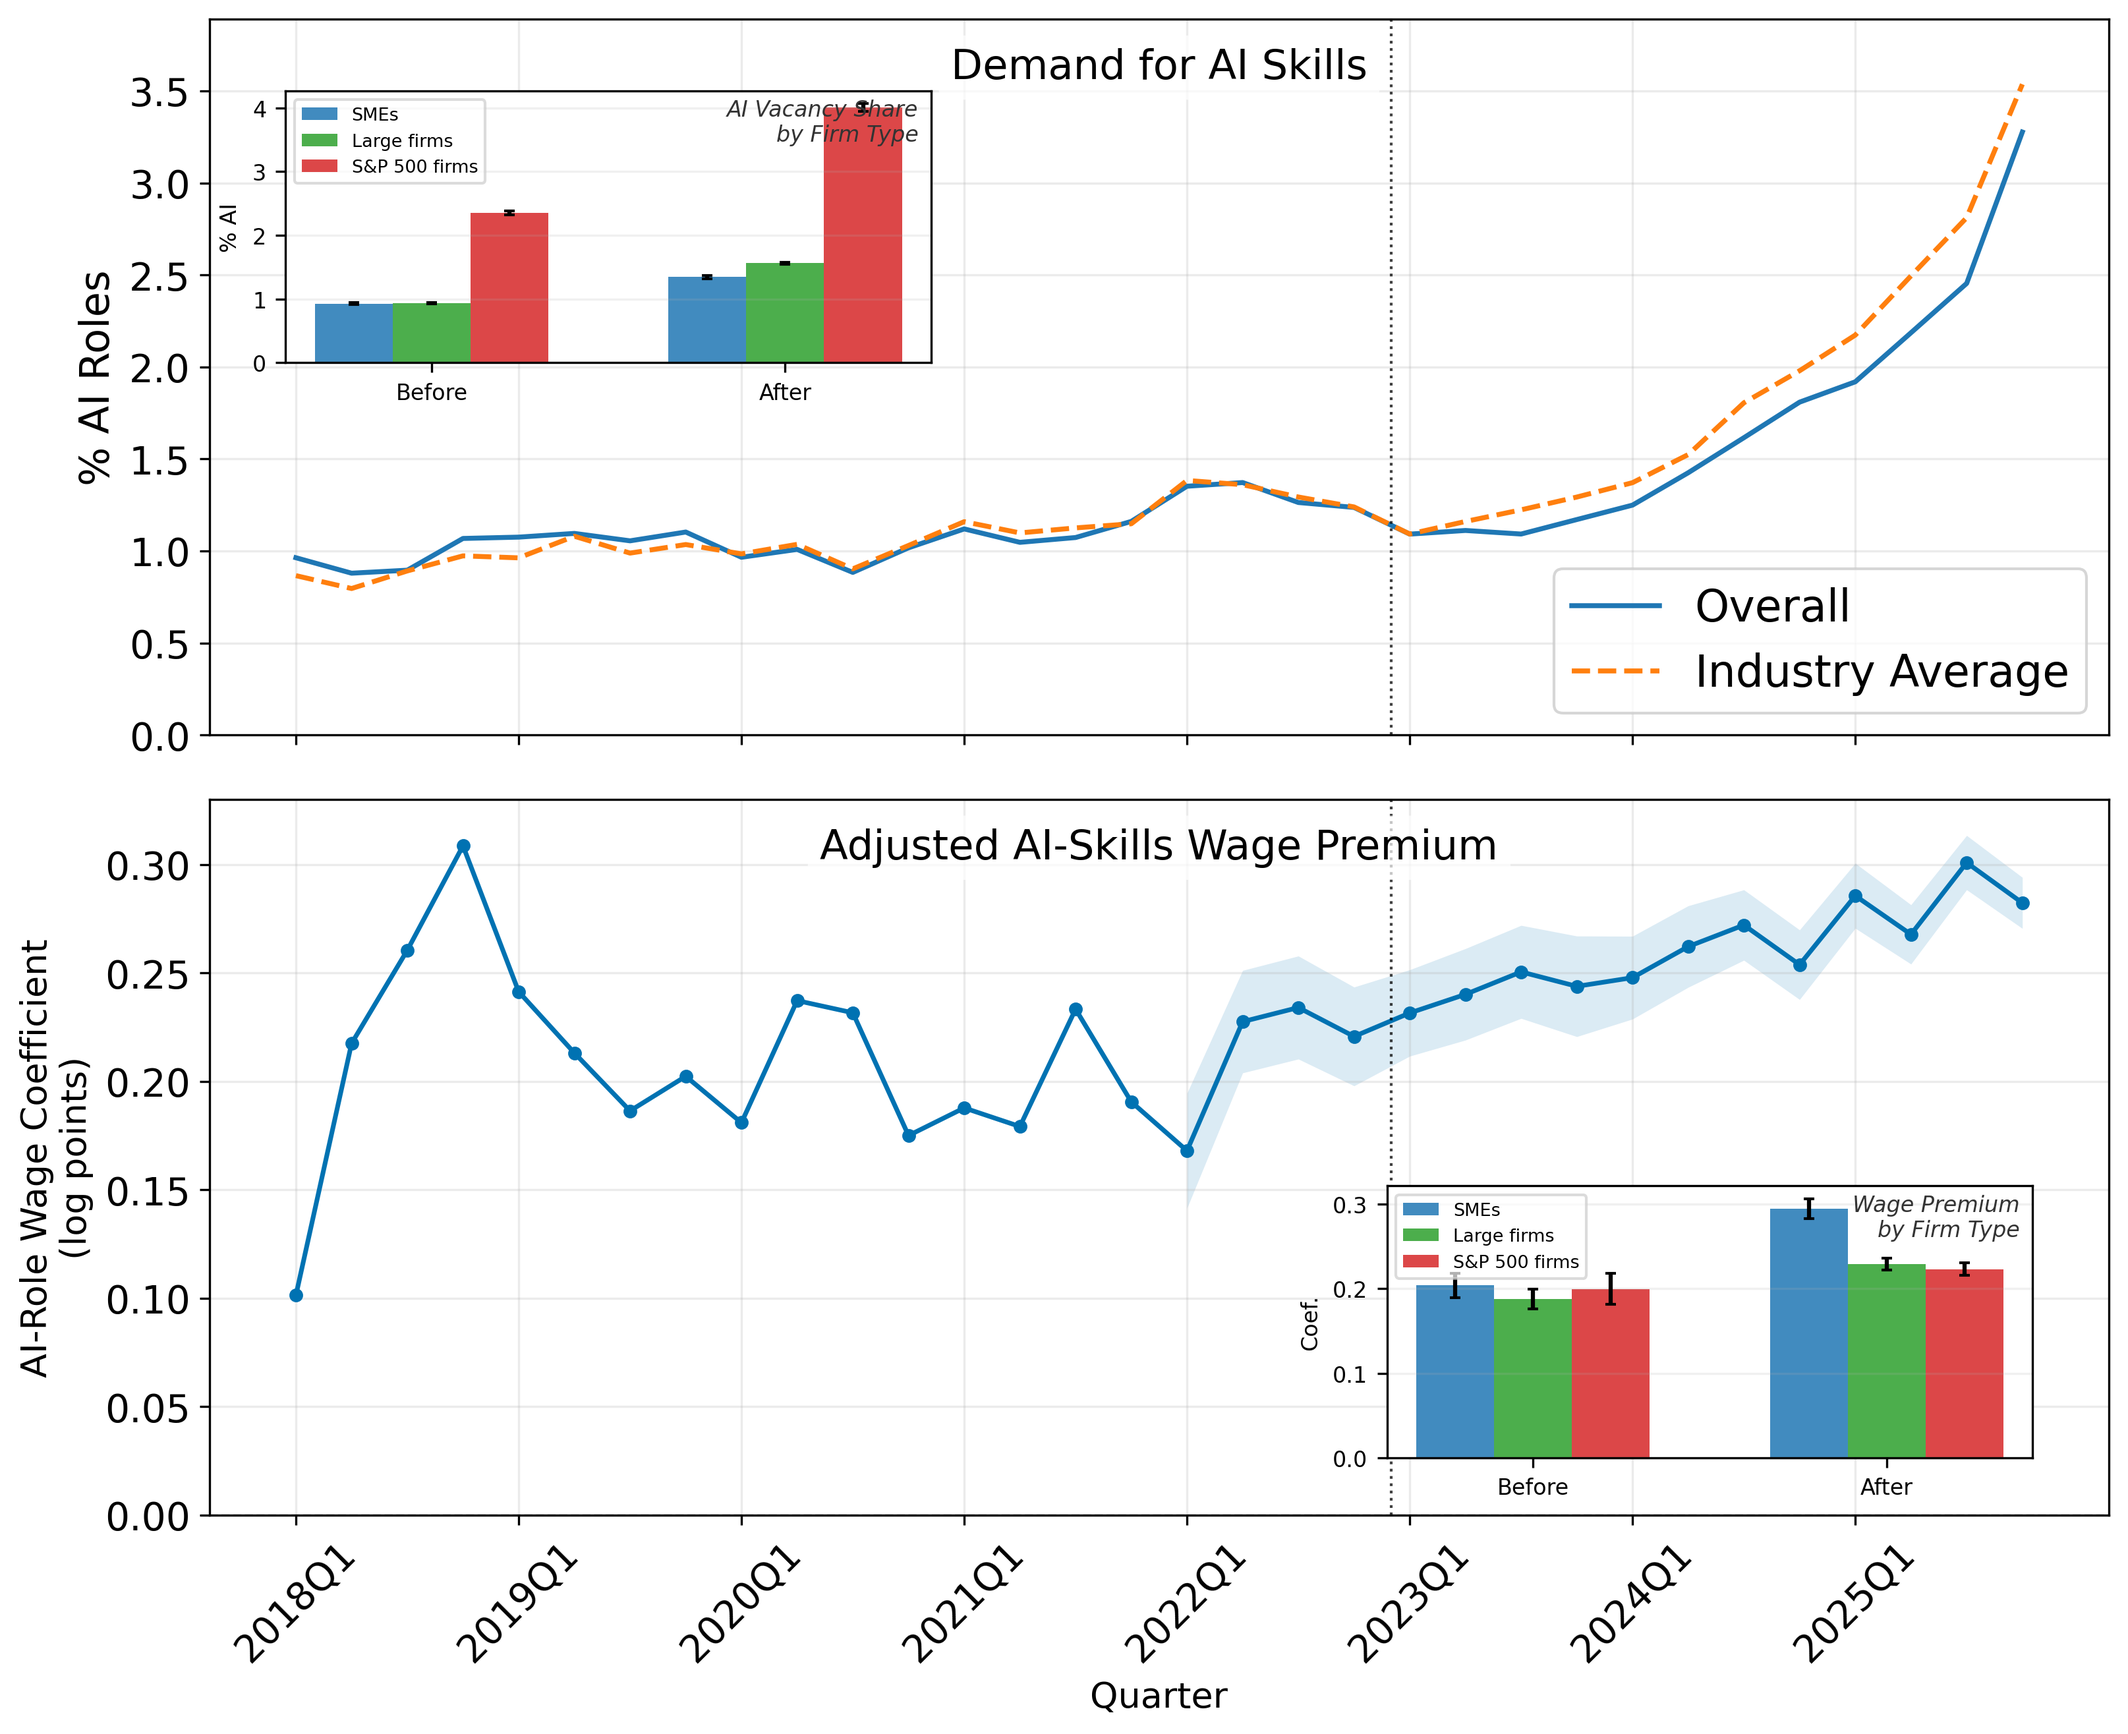
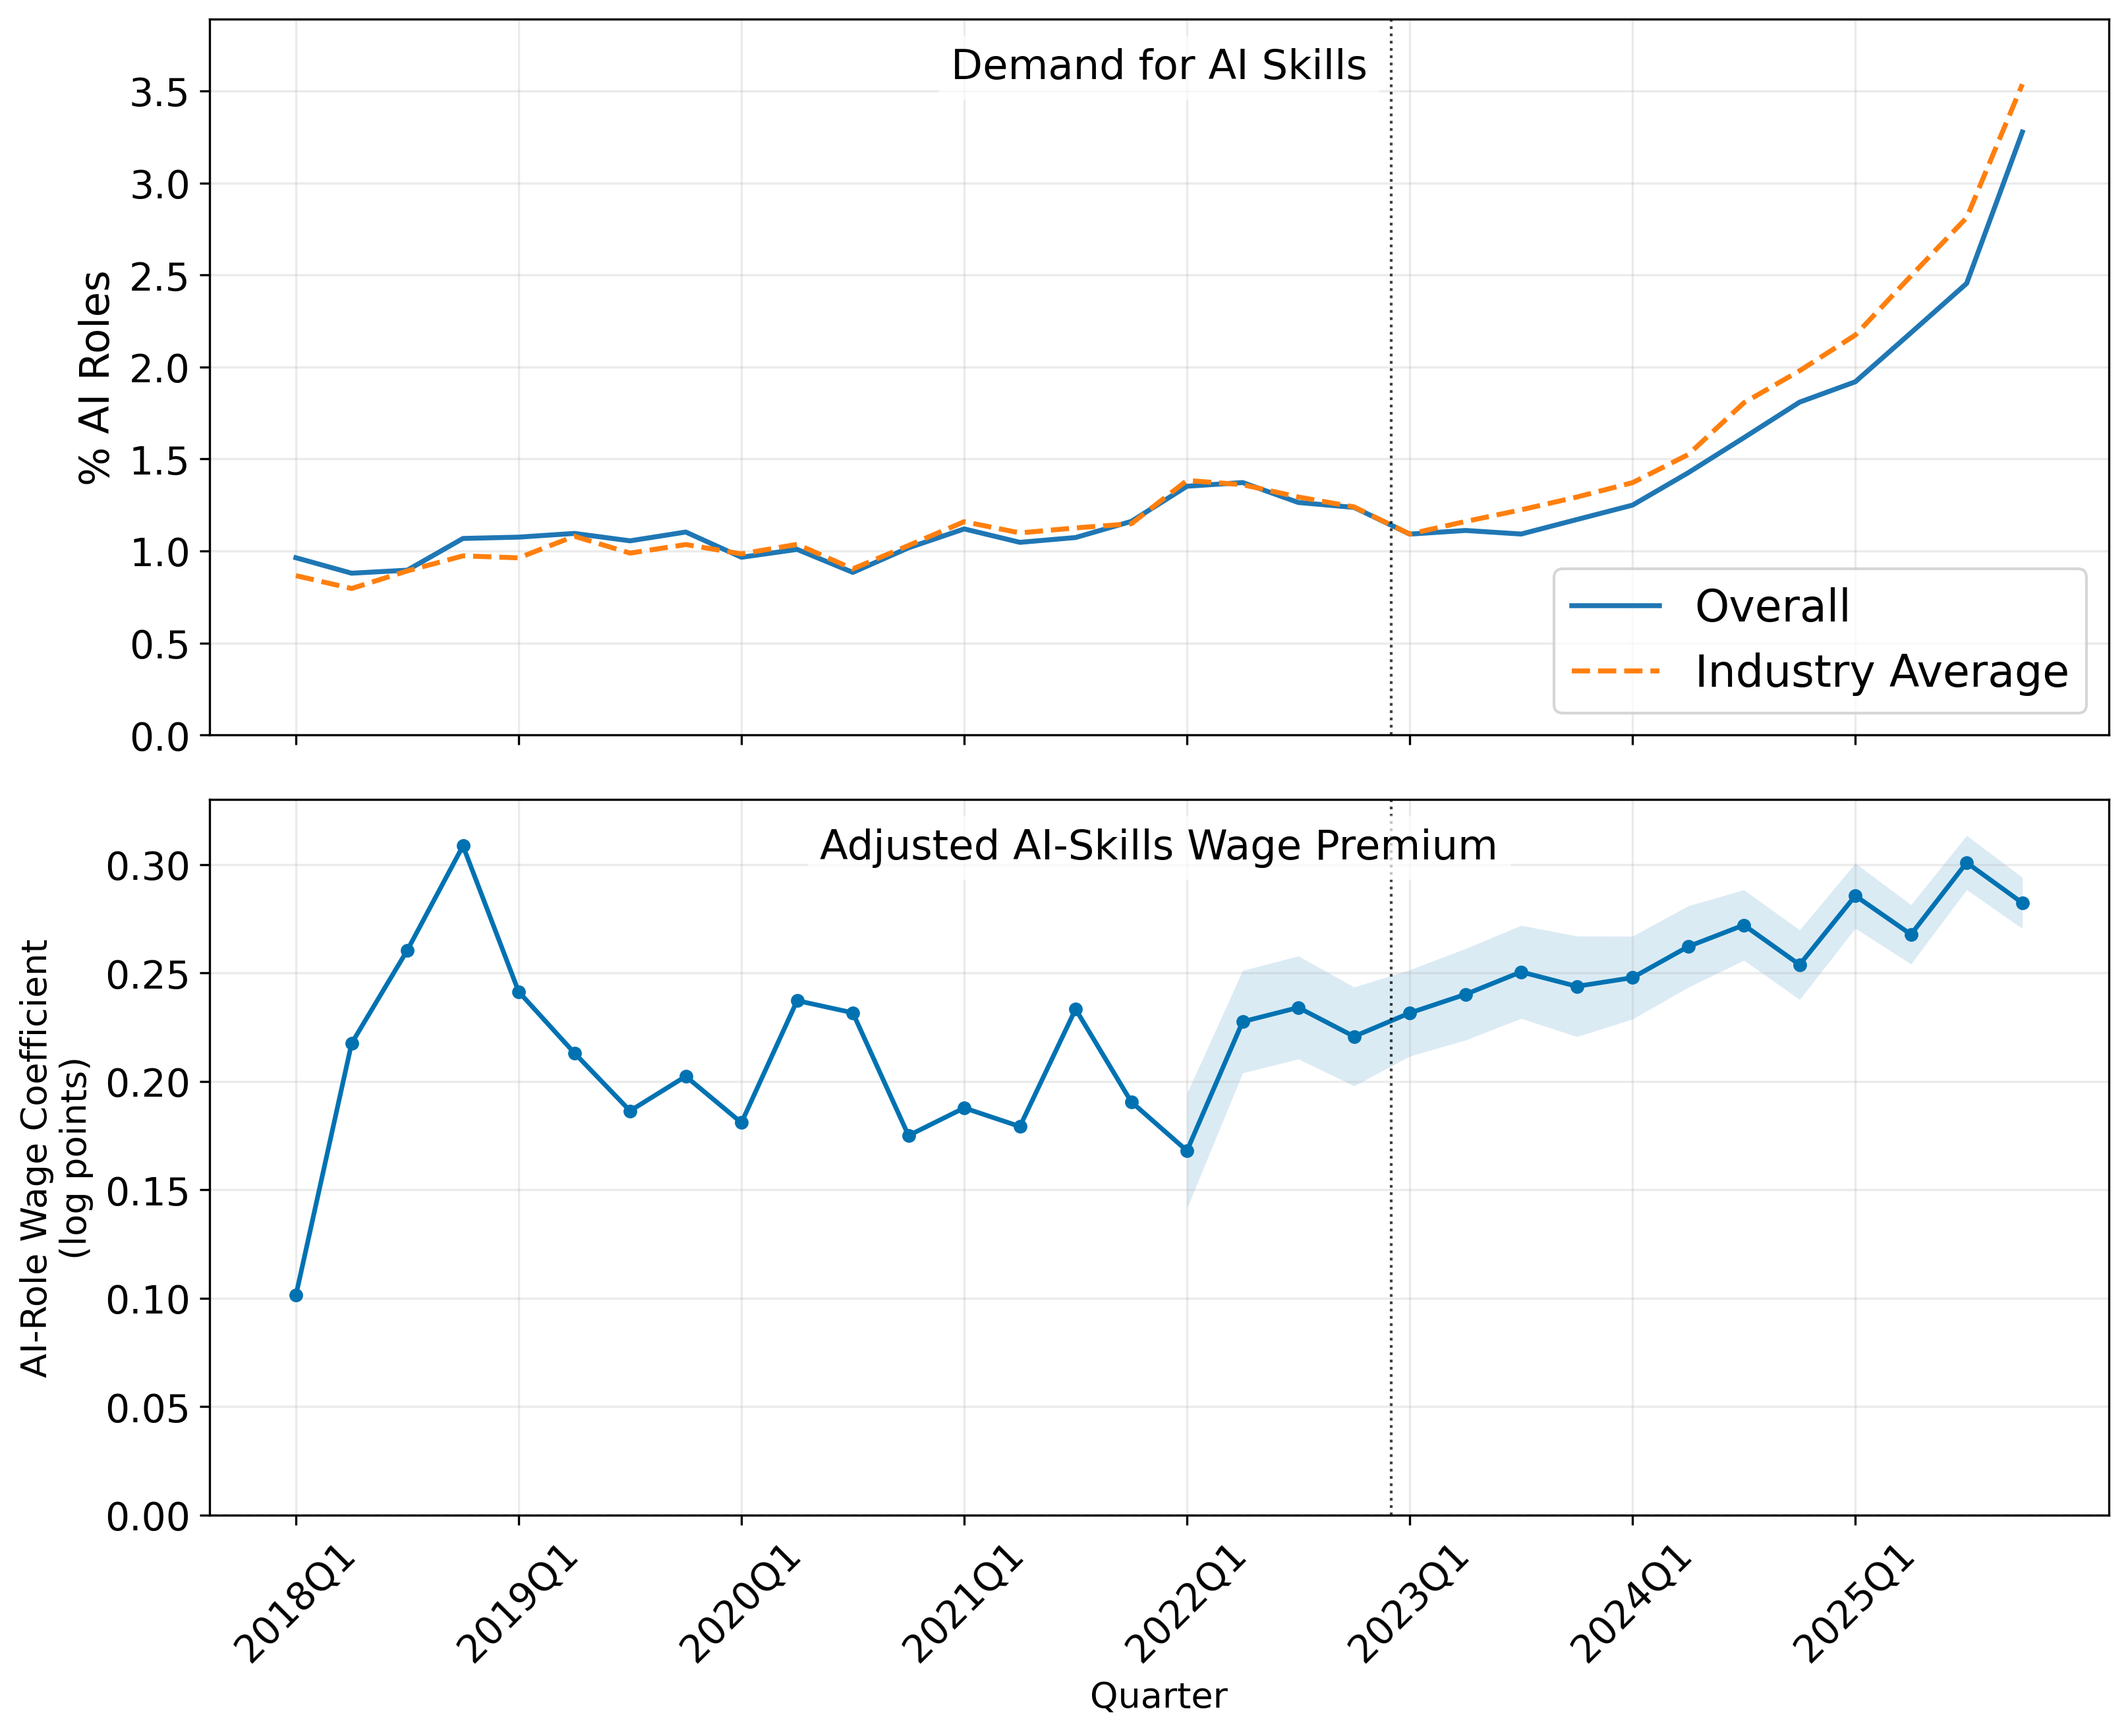
remove fig 1 insets

diff --git a/scripts/plot_firm_category_figure1.py b/scripts/plot_firm_category_figure1.py
@@ -9,15 +9,18 @@ Usage:
     uv run python scripts/plot_firm_category_figure1.py
 """
 
+import os
 from pathlib import Path
 import sys
+
+os.environ.setdefault("MPLCONFIGDIR", "/tmp/matplotlib")
 
 import matplotlib.pyplot as plt
 import numpy as np
 import pandas as pd
 
 sys.path.append(str(Path(__file__).parent.parent / "src"))
-from package_files.config_utils import get_repo_root
+from package_files.config_utils import get_processed_dir, get_repo_root
 
 REPO_ROOT = get_repo_root()
 TABLES_DIR = REPO_ROOT / "results" / "tables_2026" / "descriptive"
@@ -36,6 +39,8 @@ FIRM_CATEGORY_MARKERS = {
     "S&P 500 firms": "o",
 }
 GENAI_CUTOFF = pd.Period("2022Q4", freq="Q")
+FIGURE1_DEMAND_INSET_BOUNDS = [0.04, 0.52, 0.34, 0.38]
+FIGURE1_WAGE_INSET_BOUNDS = [0.62, 0.08, 0.34, 0.38]
 
 
 def add_firm_category(df):
@@ -101,13 +106,26 @@ def set_tight_symmetric_ylim(ax, values, lower_values=None, upper_values=None, p
     ax.set_ylim(-limit, limit)
 
 
+def set_zero_based_ylim(ax, values, upper_values=None, pad=0.10, floor=0.02, min_upper=None):
+    pieces = [pd.Series(values).dropna()]
+    if upper_values is not None:
+        pieces.append(pd.Series(upper_values).dropna())
+    combined = pd.concat(pieces, ignore_index=True)
+    if combined.empty:
+        return
+    upper = max(float(combined.max()) * (1 + pad), floor)
+    if min_upper is not None:
+        upper = max(upper, min_upper)
+    ax.set_ylim(0, upper)
+
+
 def add_demand_inset(ax, demand_wide):
     """Add the Figure 1-style before/after demand inset from saved quarters."""
     period_means = {
         "Before": demand_wide[demand_wide.index.year <= 2022].mean(),
         "After": demand_wide[demand_wide.index.year > 2022].mean(),
     }
-    inset = ax.inset_axes([1.08, 0.22, 0.30, 0.52])
+    inset = ax.inset_axes(FIGURE1_DEMAND_INSET_BOUNDS)
     periods = ["Before", "After"]
     x = np.arange(len(periods))
     bar_width = 0.22
@@ -124,17 +142,17 @@ def add_demand_inset(ax, demand_wide):
         )
 
     inset.set_xticks(x)
-    inset.set_xticklabels(periods, fontsize=8)
-    inset.set_ylabel("% AI", fontsize=7)
-    inset.tick_params(axis="both", labelsize=7)
-    inset.legend(fontsize=5.5, loc="upper left", framealpha=0.7)
+    inset.set_xticklabels(periods, fontsize=9)
+    inset.set_ylabel("% AI", fontsize=8)
+    inset.tick_params(axis="both", labelsize=8)
+    inset.legend(fontsize=6.5, loc="upper left", framealpha=0.7)
     inset.grid(axis="y", alpha=0.18)
     inset.text(
         0.98,
         0.97,
         "AI Vacancy Share\nby Firm Type",
         transform=inset.transAxes,
-        fontsize=7,
+        fontsize=8,
         ha="right",
         va="top",
         fontstyle="italic",
@@ -171,7 +189,7 @@ def add_wage_inset(ax, wage_betas):
     period_betas = summarize_wage_betas_by_period(wage_betas)
     if period_betas.empty:
         return
-    inset = ax.inset_axes([1.08, 0.22, 0.30, 0.52])
+    inset = ax.inset_axes(FIGURE1_WAGE_INSET_BOUNDS)
     periods = ["Before", "After"]
     x = np.arange(len(periods))
     bar_width = 0.22
@@ -181,29 +199,39 @@ def add_wage_inset(ax, wage_betas):
             period_betas[FIRM_CATEGORY] == category
         ].set_index("period")
         values = [category_data.loc[p, "ai_role_beta"] for p in periods]
+        yerr_lo = [
+            category_data.loc[p, "ai_role_beta"] - category_data.loc[p, "lower_ci"]
+            for p in periods
+        ]
+        yerr_hi = [
+            category_data.loc[p, "upper_ci"] - category_data.loc[p, "ai_role_beta"]
+            for p in periods
+        ]
         offset = (i - 1) * bar_width
         inset.bar(
             x + offset,
             values,
+            yerr=[yerr_lo, yerr_hi],
             width=bar_width,
             color=FIRM_CATEGORY_COLORS[category],
             alpha=0.85,
+            capsize=2,
             label=category,
         )
 
     inset.axhline(0, color="gray", linewidth=0.7, linestyle="--")
     inset.set_xticks(x)
-    inset.set_xticklabels(periods, fontsize=8)
-    inset.set_ylabel("Coef.", fontsize=7)
-    inset.tick_params(axis="both", labelsize=7)
-    inset.legend(fontsize=5.5, loc="upper left", framealpha=0.7)
+    inset.set_xticklabels(periods, fontsize=9)
+    inset.set_ylabel("Coef.", fontsize=8)
+    inset.tick_params(axis="both", labelsize=8)
+    inset.legend(fontsize=6.5, loc="upper left", framealpha=0.7)
     inset.grid(axis="y", alpha=0.18)
     inset.text(
         0.98,
         0.97,
         "Wage Premium\nby Firm Type",
         transform=inset.transAxes,
-        fontsize=7,
+        fontsize=8,
         ha="right",
         va="top",
         fontstyle="italic",
@@ -211,21 +239,53 @@ def add_wage_inset(ax, wage_betas):
     )
 
 
-def main():
-    # --- Load pre-computed descriptive tables ---
+def load_demand_wide():
+    """Load cached demand by firm category, or compute it from minimal parquet columns."""
     demand_path = TABLES_DIR / "quarterly_ai_demand_by_firm_category.csv"
-    if not demand_path.exists():
-        raise FileNotFoundError(f"Demand table not found: {demand_path}")
-    demand_wide = pd.read_csv(demand_path)
-    demand_wide["QUARTER"] = demand_wide["QUARTER"].apply(
-        lambda x: pd.Period(x, freq="Q")
-    )
-    demand_wide = (
+    if demand_path.exists():
+        demand_wide = pd.read_csv(demand_path)
+        demand_wide["QUARTER"] = demand_wide["QUARTER"].apply(
+            lambda x: pd.Period(x, freq="Q")
+        )
+        print(f"Loaded demand table: {demand_path}")
+    else:
+        processed_path = get_processed_dir() / "labeled_v2.parquet"
+        print(f"Demand table not found; computing from {processed_path}")
+        columns = ["POSTED", "AI ROLE", "SP500", "FIRM_POSTING_COUNT"]
+        try:
+            demand_df = pd.read_parquet(processed_path, columns=columns)
+        except OSError:
+            import polars as pl
+
+            demand_df = pl.scan_parquet(processed_path).select(columns).collect().to_pandas()
+        demand_df["POSTED"] = pd.to_datetime(demand_df["POSTED"])
+        demand_df["QUARTER"] = demand_df["POSTED"].dt.to_period("Q")
+        demand_df = add_firm_category(demand_df).dropna(subset=[FIRM_CATEGORY])
+        demand_wide = (
+            demand_df.groupby(["QUARTER", FIRM_CATEGORY], observed=False)["AI ROLE"]
+            .mean()
+            .mul(100)
+            .reset_index(name="ai_role_share")
+            .pivot(index="QUARTER", columns=FIRM_CATEGORY, values="ai_role_share")
+            .reset_index()
+        )
+        TABLES_DIR.mkdir(parents=True, exist_ok=True)
+        demand_wide.assign(QUARTER=demand_wide["QUARTER"].astype(str)).to_csv(
+            demand_path,
+            index=False,
+        )
+        print(f"Saved demand table: {demand_path}")
+
+    return (
         demand_wide.set_index("QUARTER")
         .sort_index()
         .reindex(columns=FIRM_CATEGORY_ORDER)
     )
-    print(f"Loaded demand table: {demand_path}")
+
+
+def main():
+    # --- Load pre-computed descriptive tables ---
+    demand_wide = load_demand_wide()
 
     # --- Load pre-computed wage betas ---
     betas_path = TABLES_DIR / "quarterly_ai_wage_betas_by_firm_category.csv"
@@ -236,7 +296,7 @@ def main():
     print(f"Loaded {len(wage_betas)} wage beta rows from {betas_path}")
 
     # --- Plot ---
-    fig, (demand_ax, wage_ax) = plt.subplots(nrows=2, ncols=1, figsize=(17, 9), sharex=True)
+    fig, (demand_ax, wage_ax) = plt.subplots(nrows=2, ncols=1, figsize=(11, 9), sharex=True)
     quarter_positions = np.arange(len(demand_wide.index))
     quarter_position_map = {q: i for i, q in enumerate(demand_wide.index)}
 
@@ -256,7 +316,8 @@ def main():
     demand_ax.set_ylabel("% AI Roles", fontsize=15)
     demand_ax.set_title("Demand for AI Skills by Firm Category", fontsize=15)
     add_chatgpt_quarter_line(demand_ax, demand_wide.index, add_label=True)
-    demand_ax.legend(title=None, fontsize=11)
+    set_zero_based_ylim(demand_ax, demand_wide.stack())
+    demand_ax.legend(title=None, fontsize=11, loc="lower right")
     demand_ax.grid(alpha=0.25)
     add_demand_inset(demand_ax, demand_wide)
 
@@ -278,11 +339,18 @@ def main():
 
     wage_ax.axhline(0, color="gray", linewidth=0.8, linestyle="--")
     add_chatgpt_quarter_line(wage_ax, demand_wide.index)
-    wage_ax.set_ylim(0, 0.4)
+    post_ci = plotted[plotted["QUARTER"] >= pd.Period("2022Q1", freq="Q")]
+    set_tight_symmetric_ylim(
+        wage_ax,
+        plotted["ai_role_beta"],
+        post_ci["lower_ci"],
+        post_ci["upper_ci"],
+    )
+    wage_ax.set_ylim(bottom=-0.1)
     wage_ax.set_ylabel("AI-Role Wage Coefficient\n(log points)", fontsize=13)
     wage_ax.set_title("Adjusted AI-Skills Wage Premium by Firm Category", fontsize=15)
     wage_ax.grid(alpha=0.25)
-    wage_ax.legend(title=None, fontsize=11)
+    wage_ax.legend(title=None, fontsize=11, loc="upper left")
     add_wage_inset(wage_ax, wage_betas)
 
     tick_positions = list(range(0, len(demand_wide.index), 4))
@@ -290,7 +358,7 @@ def main():
     wage_ax.set_xticklabels([str(demand_wide.index[i]) for i in tick_positions], rotation=45)
     wage_ax.set_xlabel("Quarter", fontsize=13)
 
-    plt.tight_layout(rect=[0, 0, 0.80, 1])
+    plt.tight_layout()
     FIG_DIR.mkdir(parents=True, exist_ok=True)
     output_path = FIG_DIR / "figure1_ai_demand_wage_beta_by_firm_category.png"
     plt.savefig(output_path, bbox_inches="tight", dpi=300)

diff --git a/analysis/descriptive_analysis.py b/analysis/descriptive_analysis.py
@@ -590,7 +590,6 @@ def generate_ai_roles_over_time_plot(usdf, wage_betas=None):
         pct_df_all["Industry Average"],
     )
     demand_ax.grid(alpha=0.25)
-    add_firm_category_demand_inset(demand_ax, usdf)
 
     plotted = wage_betas[wage_betas["status"] == "ok"].copy()
     quarter_position_map = {quarter: idx for idx, quarter in enumerate(pct_df_all.index)}
@@ -620,7 +619,6 @@ def generate_ai_roles_over_time_plot(usdf, wage_betas=None):
         plotted.loc[post_2021, "upper_ci"],
     )
     wage_ax.set_ylim(0, 0.33)
-    add_firm_category_wage_inset(wage_ax, usdf)
     wage_ax.set_ylabel("AI-Role Wage Coefficient\n(log points)", fontsize=13)
     wage_ax.text(
         0.5,
@@ -1127,8 +1125,10 @@ def generate_ai_roles_over_time_by_firm_category_plot(usdf):
     demand_ax.set_ylabel("% AI Roles", fontsize=15)
     demand_ax.set_title("Demand for AI Skills by Firm Category", fontsize=15)
     add_genai_quarter_line(demand_ax, demand_wide.index)
-    demand_ax.legend(title=None, fontsize=11)
+    set_zero_based_ylim(demand_ax, demand_wide.stack())
+    demand_ax.legend(title=None, fontsize=11, loc="lower right")
     demand_ax.grid(alpha=0.25)
+    add_firm_category_demand_inset(demand_ax, category_df)
 
     plotted = wage_betas[wage_betas["status"] == "ok"].copy()
     plotted["x"] = plotted["QUARTER"].map(quarter_position_map)
@@ -1164,10 +1164,12 @@ def generate_ai_roles_over_time_by_firm_category_plot(usdf):
         post_ci["lower_ci"],
         post_ci["upper_ci"],
     )
+    wage_ax.set_ylim(bottom=-0.1)
     wage_ax.set_ylabel("AI-Role Wage Coefficient\n(log points)", fontsize=13)
     wage_ax.set_title("Adjusted AI-Skills Wage Premium by Firm Category", fontsize=15)
     wage_ax.grid(alpha=0.25)
-    wage_ax.legend(title=None, fontsize=11)
+    wage_ax.legend(title=None, fontsize=11, loc="upper left")
+    add_firm_category_wage_inset(wage_ax, category_df)
 
     tick_positions = list(range(0, len(demand_wide.index), 4))
     wage_ax.set_xticks(tick_positions)
